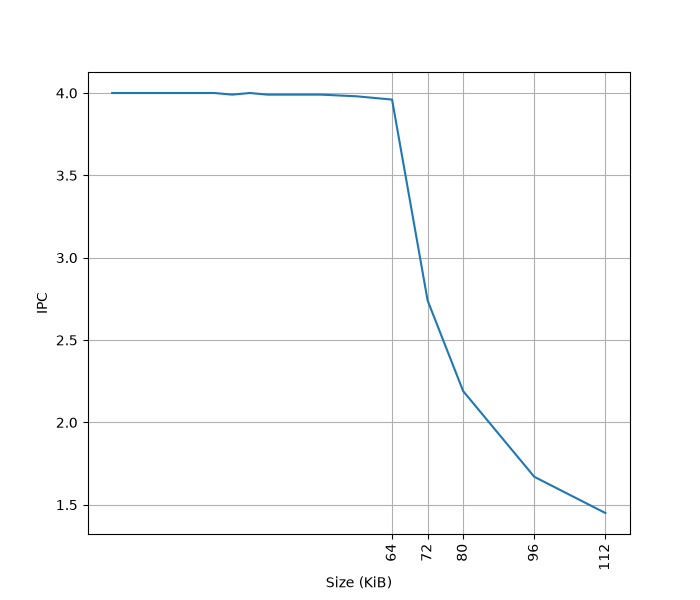
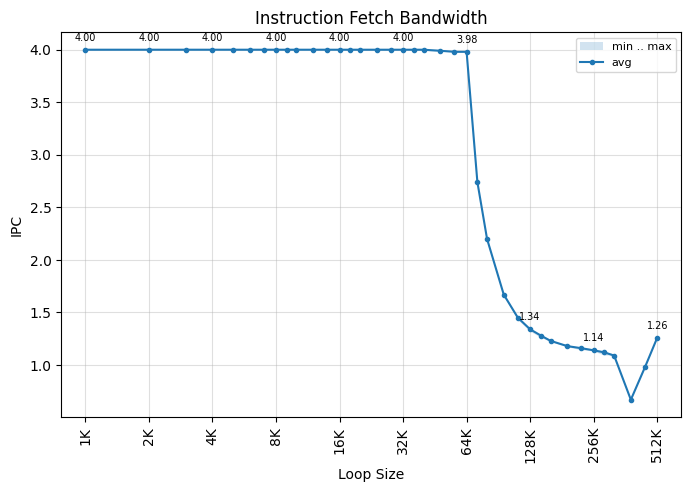
Add more analysis

diff --git a/docs/blog/posts/hardware/loongson-la464.md b/docs/blog/posts/hardware/loongson-la464.md
@@ -117,6 +117,8 @@ Loongson LA464 的性能测试结果见 [SPEC](../../../benchmark/index.md)。
 
 可以看到 footprint 在 64 KB 之前时可以达到 4 IPC，之后开始下降，这里的 64 KB 就对应了 L1 ICache 的容量。
 
+超出 L1 ICache 范围，到 L2 范围后，IPC 下降比较显著，看起来是没有指令预取器，或者没针对这种大量 NOP 指令的场景做适配。
+
 [测试过程详见测试代码](https://github.com/jiegec/cpu-micro-benchmarks/blob/master/src/fetch_bandwidth_gen.cpp)。
 
 ### Return Stack
@@ -125,7 +127,7 @@ Loongson LA464 的性能测试结果见 [SPEC](../../../benchmark/index.md)。
 
 ![](./loongson-la464-ras-size.png)
 
-可以看到调用链深度为 32 时性能突然变差，因此 LA464 的 Return Stack 深度为 32。
+可以看到调用链深度为 32 时性能突然变差，因此 LA464 的 Return Stack 深度为 32。测试结果和 Chips and Cheese 一致。
 
 ### BTB
 
